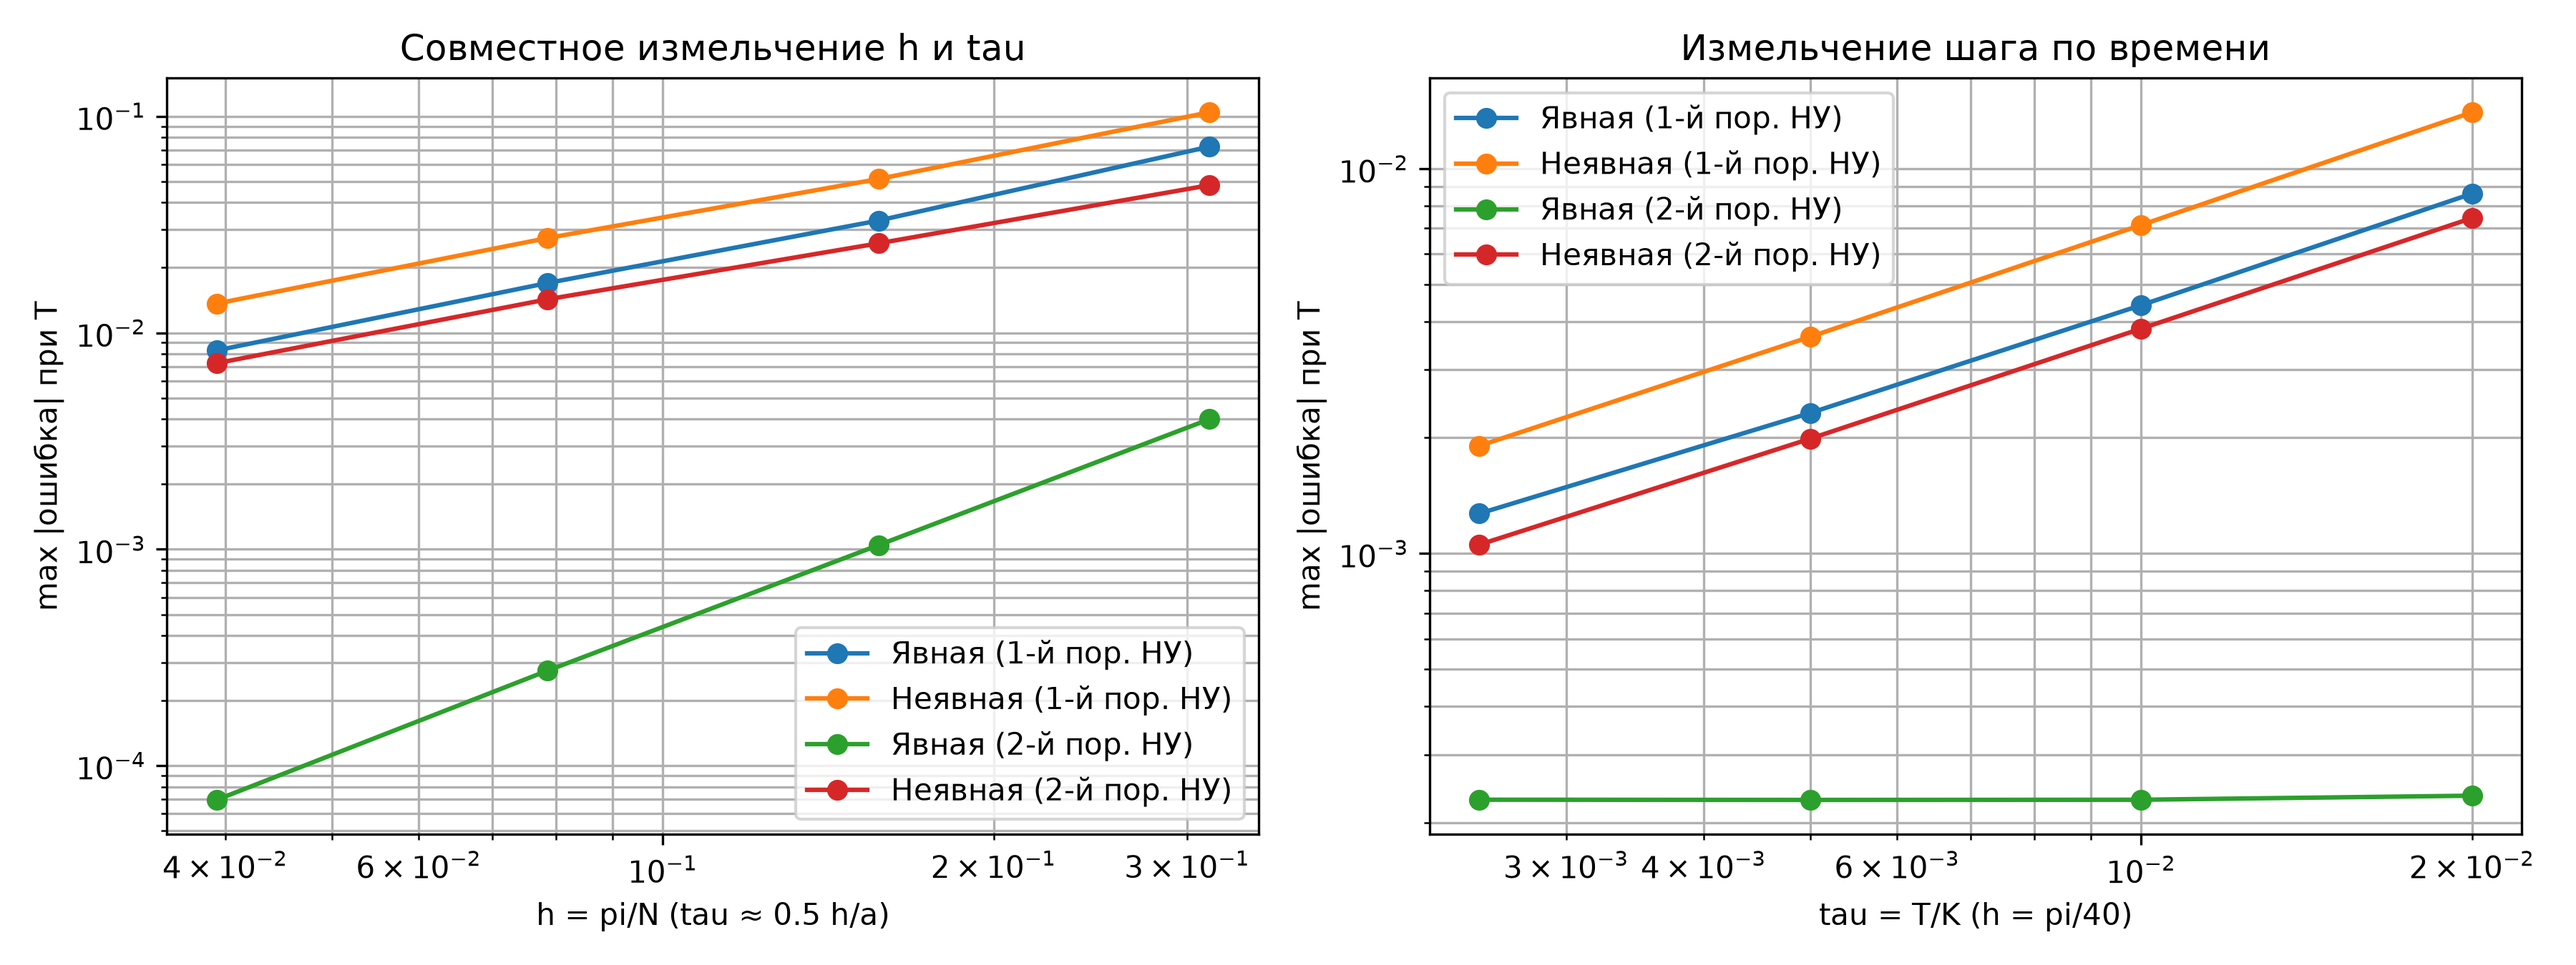
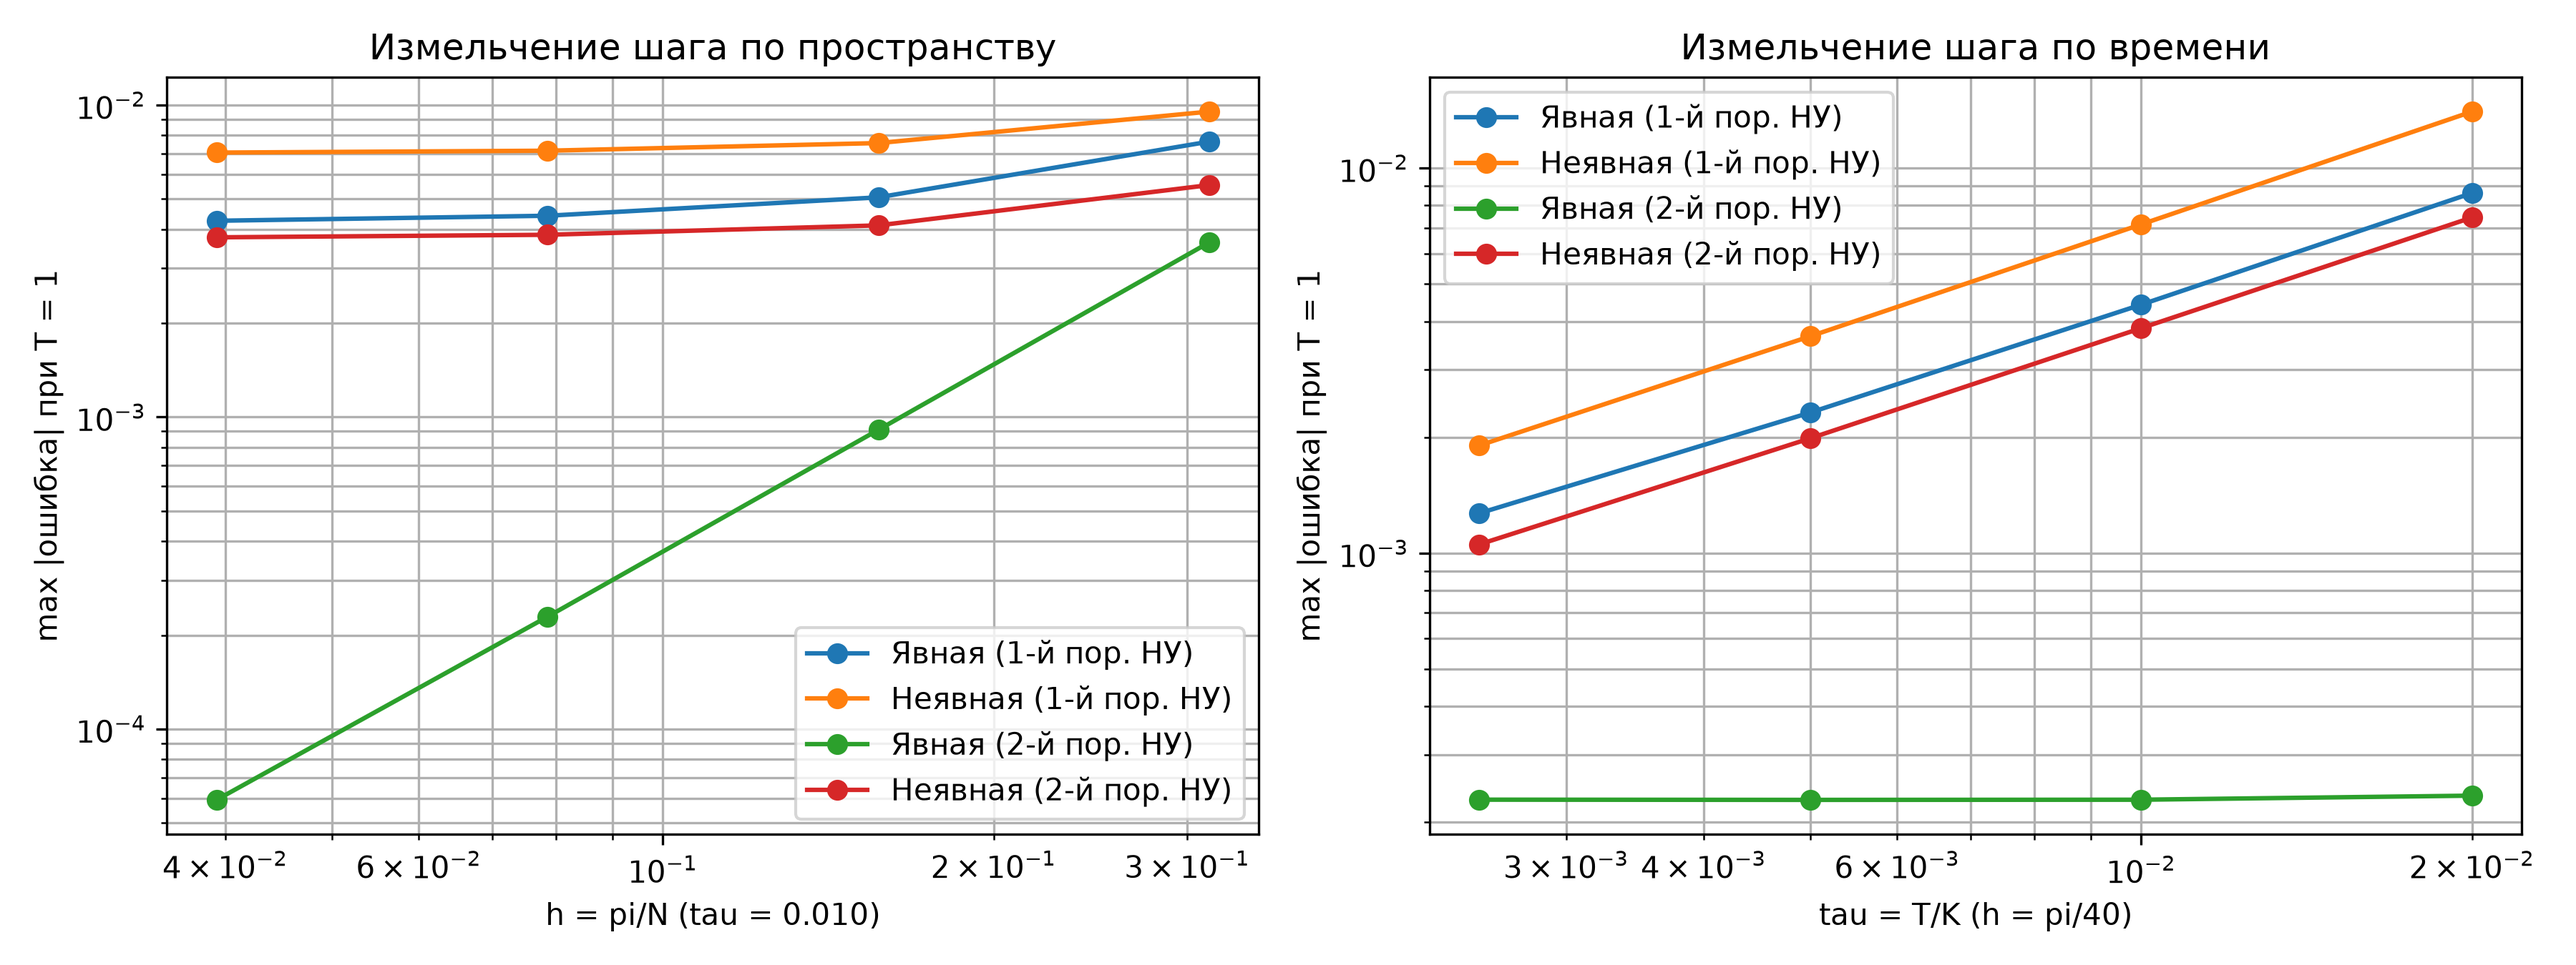
changed prot convergance

diff --git a/task/utils.py b/task/utils.py
@@ -160,36 +160,41 @@ def build_plots(solutions, x_values, t_values, a=A_COEF):
     plt.close()
 
 
-def run_grid_convergence_study(schemes):
-    _, axes = plt.subplots(1, 2, figsize=(12, 4.5), num="Исследование сходимости")
 
-    # Совместное измельчение h и tau, число Куранта примерно 0.5
+def run_grid_convergence_study(schemes):
+    fig, axes = plt.subplots(
+        1, 2,
+        figsize=(12, 4.5),
+        num="Исследование сходимости"
+    )
+
+    # 1. Измельчение h при фиксированном tau
     n_list = [10, 20, 40, 80]
-    nu_fixed = 0.5
+    k_fixed = 100
+    tau_fixed = T / k_fixed
+
     h_vals = [L / n for n in n_list]
     err_h = {name: [] for name, _ in schemes}
 
     for n in n_list:
-        h = L / n
-        tau = nu_fixed * h / A_COEF
-        k = round(T / tau)
         for name, solver in schemes:
-            x, t, layers, _ = solver(n=n, k_total=k)
+            x, t, layers, _ = solver(n=n, k_total=k_fixed)
             max_err, _ = compute_errors(layers, x, t)
             err_h[name].append(max_err)
 
     for name, _ in schemes:
         axes[0].loglog(h_vals, err_h[name], marker="o", label=name)
 
-    axes[0].set_title("Совместное измельчение h и tau")
-    axes[0].set_xlabel("h = pi/N (tau ≈ 0.5 h/a)")
-    axes[0].set_ylabel("max |ошибка| при T")
+    axes[0].set_title("Измельчение шага по пространству")
+    axes[0].set_xlabel(f"h = pi/N (tau = {tau_fixed:.3f})")
+    axes[0].set_ylabel(f"max |ошибка| при T = {T:g}")
     axes[0].grid(True, which="both")
     axes[0].legend()
 
-    # Измельчение tau при фиксированном h
+    # 2. Измельчение tau при фиксированном h
     n_fixed = 40
     k_list = [50, 100, 200, 400]
+
     tau_vals = [T / k for k in k_list]
     err_tau = {name: [] for name, _ in schemes}
 
@@ -204,13 +209,13 @@ def run_grid_convergence_study(schemes):
 
     axes[1].set_title("Измельчение шага по времени")
     axes[1].set_xlabel(f"tau = T/K (h = pi/{n_fixed})")
-    axes[1].set_ylabel("max |ошибка| при T")
+    axes[1].set_ylabel(f"max |ошибка| при T = {T:g}")
     axes[1].grid(True, which="both")
     axes[1].legend()
 
-    plt.tight_layout()
-    plt.savefig(get_plot_path("plot_convergence.png"), dpi=300)
-    plt.close()
+    fig.tight_layout()
+    fig.savefig(get_plot_path("plot_convergence.png"), dpi=300)
+    plt.close(fig)
 
 def exact_first_legend(ax, **kwargs):
     handles, labels = ax.get_legend_handles_labels()
